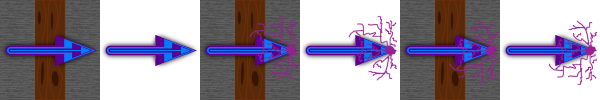
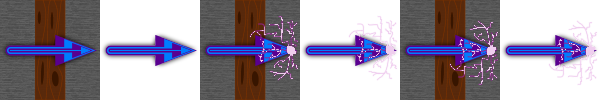
Animate the shooting thing

diff --git a/public/game/tesla_coil.js b/public/game/tesla_coil.js
@@ -3,6 +3,17 @@ class TeslaCoil extends Creature {
     return 'teslaImage';
   }
 
+  frame(time) {
+    var shift = 0;
+    if ( this.timeUntilFire(time) < 250 ) {
+      shift = 4;
+    } else if ( this.timeUntilFire(time) < 500 ) {
+      shift = 2;
+    }
+
+    return this.base_frame(time) + shift;
+  }
+
   update(time) {
     super.update(time);
 
@@ -32,17 +43,20 @@ class TeslaCoil extends Creature {
   }
 
   shouldFire(time) {
-    if ( this.last_fired == undefined ) {
-      this.last_fired = time;
-      return true;
-    }
-
-    if ( this.last_fired + ( this.data.rate - 0 ) < time ) {
+    if ( this.timeUntilFire(time) < 0 ) {
       this.last_fired = time; 
       return true;
     }
 
     return false;
+  }
+
+  timeUntilFire(time) {
+    if ( this.last_fired == undefined ) {
+      this.last_fired = time;
+    }
+
+    return this.last_fired + ( this.data.rate - 0 ) - time;
   }
 }
 

diff --git a/public/game/revolving_tesla.js b/public/game/revolving_tesla.js
@@ -1,5 +1,5 @@
 class RevolvingTesla extends TeslaCoil {
-  frame(time) {
+  base_frame(time) {
     return 1;
   }
 

diff --git a/public/game/barrier_tesla.js b/public/game/barrier_tesla.js
@@ -1,5 +1,5 @@
 class BarrierTesla extends TeslaCoil {
-  frame(time) {
+  base_frame(time) {
     return 0;
   }
 
